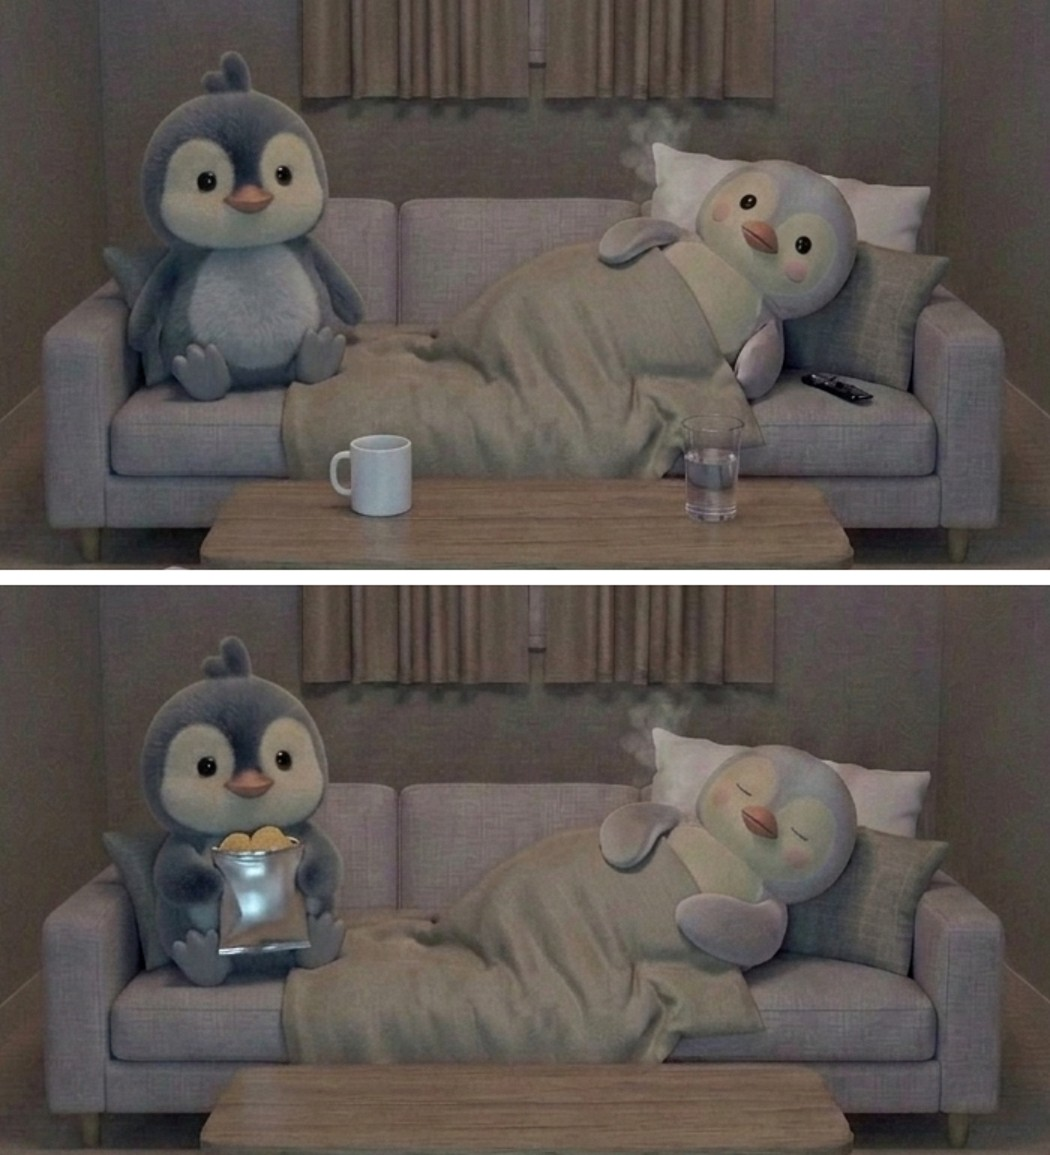
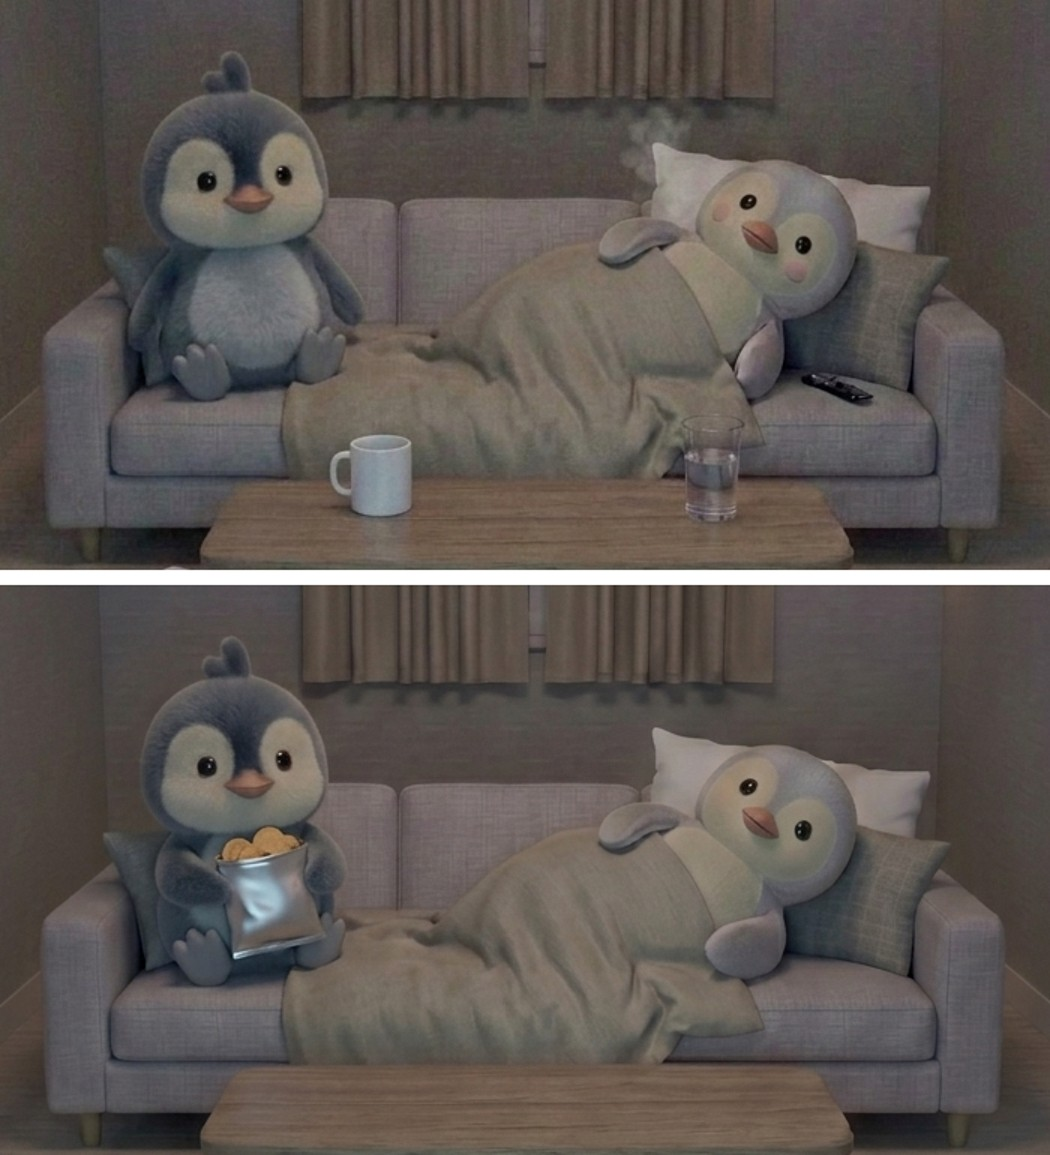
ep03 S v2 통과(볼터치 로컬 보정), E1·E2 프롬프트에 눈·볼터치 문장 반영
Claude-Session: https://claude.ai/code/session_01SQGDxQ7jeAcwC7nJPg1YUA

diff --git a/docs/ep03/03_이미지_프롬프트.md b/docs/ep03/03_이미지_프롬프트.md
@@ -21,7 +21,7 @@ The final image must be vertical 9:16.
 ```
 The output image must be a VERTICAL 9:16 PORTRAIT image - tall, not square, not landscape.
 Edit the FIRST attached image. Keep EVERYTHING exactly the same: camera, room, sofa, lighting, the empty table and floor, Chang-su sitting on the left cushion holding the silver snack bag LOW in both wings in front of his belly, Mi-sun lying on the right under the beige duvet with the pillow under her head, looking at the camera.
-Change ONLY TWO things: (1) Chang-su's HEAD is turned a little to HIS RIGHT (toward Mi-sun), about 30 degrees, his body still facing the camera, eyes open, beak closed, the bag unchanged in his wings. (2) Mi-sun's wing on the side nearer the camera is no longer resting on her chest: it reaches out across the top of the duvet toward Chang-su, and the tip of that wing holds ONE round light-brown potato chip, just taken from the top of his bag, about halfway between the bag and her beak. Her other wing stays on the duvet. Her head, eyes and smile do not move; she keeps looking at the camera (the television), beak closed. The duvet stays flat and in place, nothing is lifted.
+Change ONLY TWO things: (1) Chang-su's HEAD is turned a little to HIS RIGHT (toward Mi-sun), about 30 degrees, his body still facing the camera, eyes open, beak closed, the bag unchanged in his wings. (2) Mi-sun's wing on the side nearer the camera is no longer resting on her chest: it reaches out across the top of the duvet toward Chang-su, and the tip of that wing holds ONE round light-brown potato chip, just taken from the top of his bag, about halfway between the bag and her beak. Her other wing stays on the duvet. Her head, eyes and smile do not move; she stays AWAKE with her round black eyes WIDE OPEN, keeps looking at the camera (the television), beak closed, pink blush on both cheeks exactly as in the first image. The duvet stays flat and in place, nothing is lifted.
 Keep all important action - both faces, the snack bag, the chip and the reaching wing - inside the MIDDLE 40% of the frame's height.
 Do not change the fur of either penguin (short velvet fur with visible soft fibers, matte, NOT smooth, NOT plastic, NOT glossy), do not change the room or the lighting. Exactly ONE snack bag and ONE chip in her wing. No text, no logos, no reflections, no other objects.
 The final image must be vertical 9:16.
@@ -33,7 +33,7 @@ The final image must be vertical 9:16.
 ```
 The output image must be a VERTICAL 9:16 PORTRAIT image - tall, not square, not landscape.
 Edit the FIRST attached image. Keep EVERYTHING exactly the same: camera, room, sofa, lighting, the empty table and floor, Chang-su sitting on the left cushion facing the camera, Mi-sun lying on the right under the beige duvet with the pillow under her head, looking at the camera.
-Change ONLY TWO things: (1) Chang-su's wings are now EMPTY, both resting at his sides on the seat cushion; he looks straight at the camera with a calm neutral face, eyes open, beak closed. (2) The silver snack bag now lies on TOP of the duvet beside Mi-sun's belly, on the side nearer the camera, its opening toward her head, and her wing on that side rests ON the bag, holding it. Her other wing stays on the duvet near her chest. Her head, eyes and smile do not move; she keeps looking at the camera, beak closed. The duvet stays flat and in place.
+Change ONLY TWO things: (1) Chang-su's wings are now EMPTY, both resting at his sides on the seat cushion; he looks straight at the camera with a calm neutral face, eyes open, beak closed. (2) The silver snack bag now lies on TOP of the duvet beside Mi-sun's belly, on the side nearer the camera, its opening toward her head, and her wing on that side rests ON the bag, holding it. Her other wing stays on the duvet near her chest. Her head, eyes and smile do not move; she stays AWAKE with her round black eyes WIDE OPEN, keeps looking at the camera, beak closed, pink blush on both cheeks exactly as in the first image. The duvet stays flat and in place.
 Keep all important action - both faces, the snack bag and her wings - inside the MIDDLE 40% of the frame's height.
 Do not change the fur of either penguin (short velvet fur with visible soft fibers, matte, NOT smooth, NOT plastic, NOT glossy), do not change the room or the lighting. Exactly ONE snack bag. No text, no logos, no reflections, no other objects.
 The final image must be vertical 9:16.
@@ -45,3 +45,6 @@ The final image must be vertical 9:16.
 - 2026-10-16 사용자가 키 제공 → `.env`(git 제외, 권한 600)에 저장.
 - **S v1 ⚠ 불합격 (2026-10-16)**: Flash 95원(누적 4,533원). 통과: 탁자·바닥 비움, 리모컨 제거, 봉지 배 앞 낮게·과자 보임·글자 없음, 창수 동일, 방 동일. 실패: **미순 눈 감김(자는 얼굴)** → "TV만 본다"가 안 읽힘, 베개 위 **김 자국** 남음(ep02 머그 김). 원본 `outputs/ep03/original/S_v1_eyes_closed.png`, 확대 비교 `outputs/ep03/prompts/cmp_S_zoom.jpg`. → 프롬프트에 "미순 깨어 있음, 눈 크게 뜨고 카메라 응시, 자지 않음" + "김 제거" 추가(위 본문 반영). 재생성 대기("다시").
 - 교훈: 편집 프롬프트에서 **눈 상태를 명시하지 않으면 누운 캐릭터는 눈을 감기 쉽다**(누움 = 잠). 누운 캐릭터에는 항상 "eyes wide open, NOT sleeping" 문장.
+- **S v2 ✅ 통과(볼터치 보정) (2026-10-16)**: Flash 95원(누적 4,628원). 미순 눈 뜨고 카메라 응시, 김 없음, 탁자·바닥 비움, 리모컨 제거, 봉지 배 앞 낮게(과자 보임, 글자 없음), 창수·방 동일. 결함 1개: **미순 볼터치 사라짐** → 재생성 대신 로컬 보정(0원): 원래 볼 위치에 분홍 색상 이동(R+22, G−8, B−6)을 흐린 타원 마스크로 얹음. 원본 `outputs/ep03/original/S_v2_raw_noblush.png`, 얼굴 비교(부모 | 원본 | 보정) `outputs/ep03/prompts/cmp_S_face.jpg`. 채택 `outputs/ep03/01/start_v1.png`.
+- E1·E2 프롬프트에 "눈 크게 뜸, 깨어 있음, 볼터치 그대로" 문장 선반영.
+- 교훈: 어두운 밤 장면 편집에서 **미순 볼터치가 빠지기 쉽다** → 미순이 나오는 모든 편집 프롬프트에 "pink blush on both cheeks exactly as in the first image" 고정.
